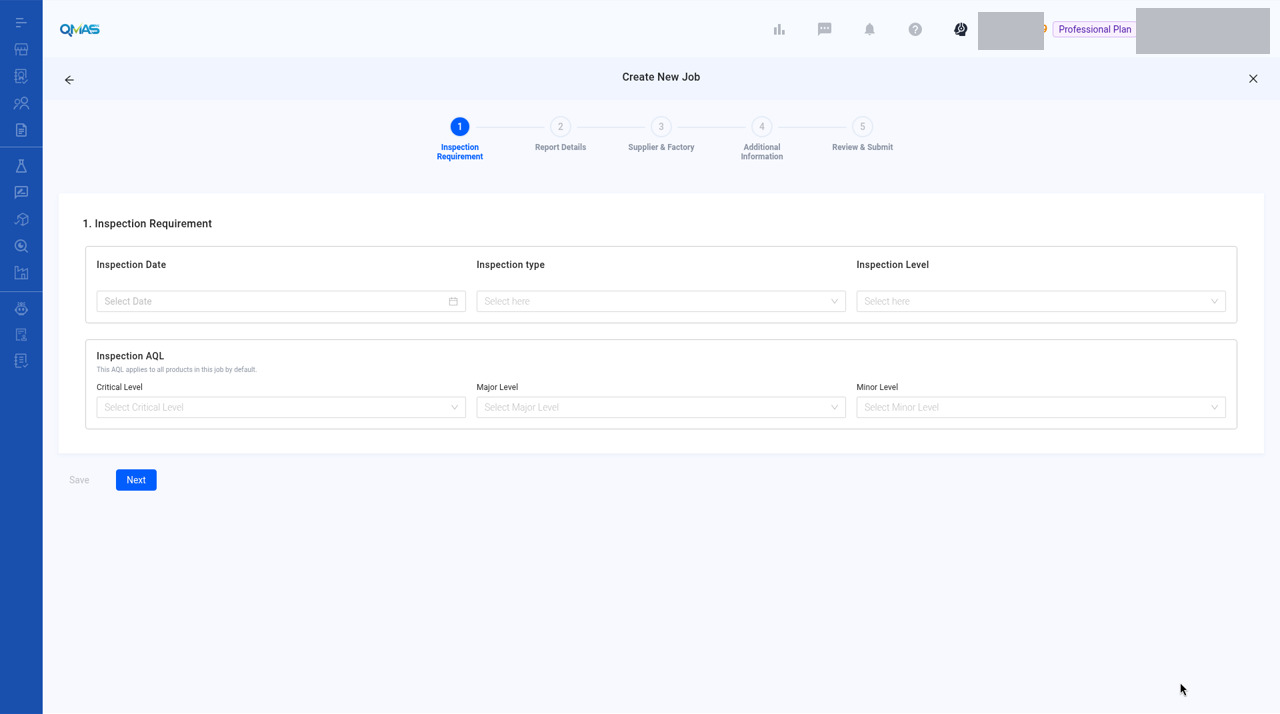
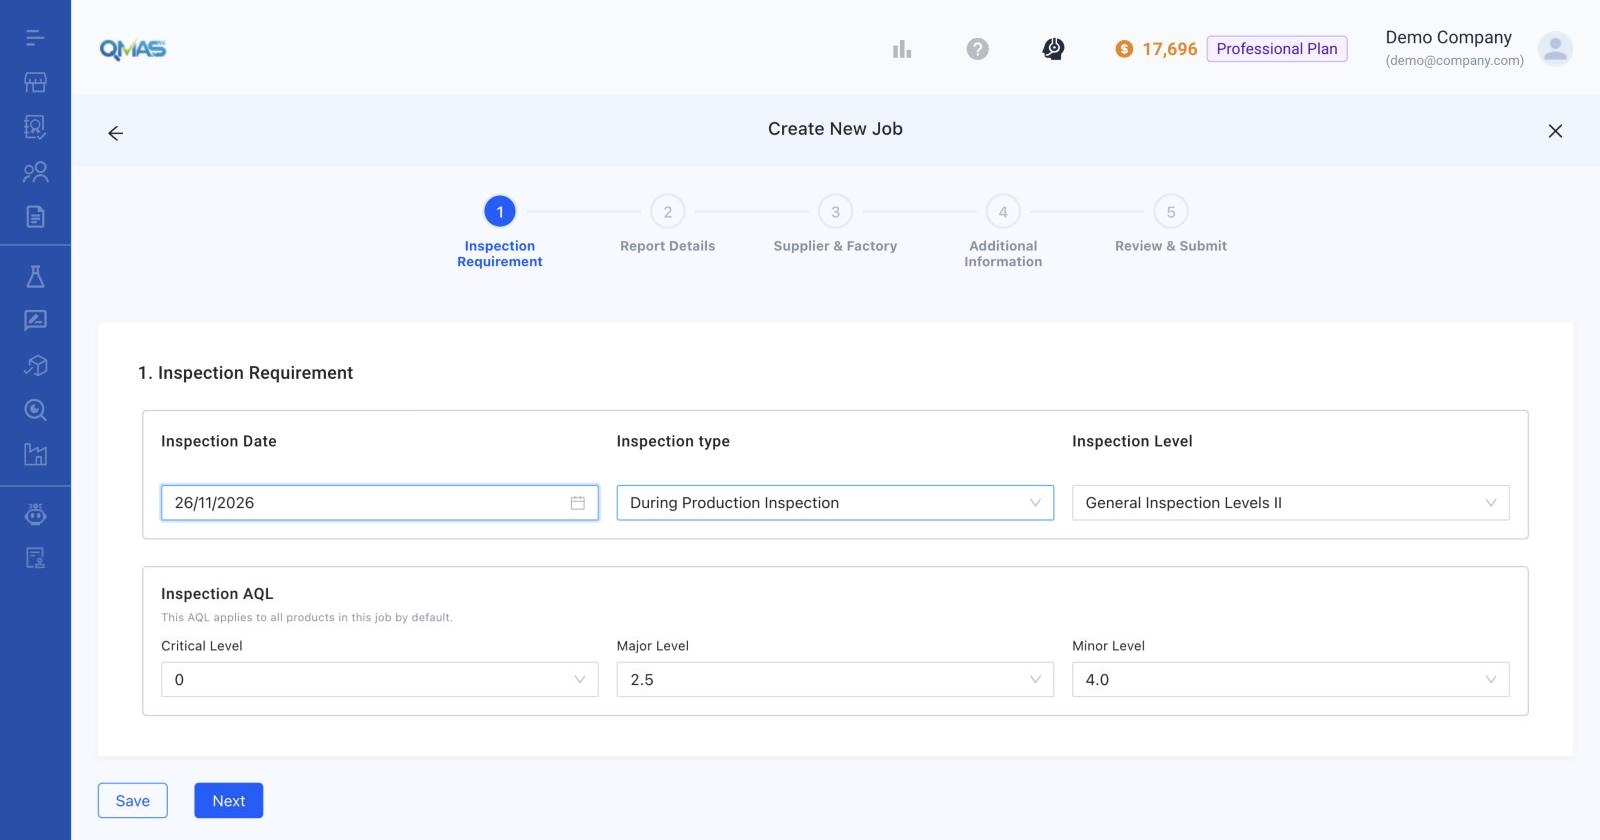
Recapture Internal QC Inspection with demo data in HD

diff --git a/export/print/qmas-user-guide.html b/export/print/qmas-user-guide.html
@@ -1033,13 +1033,13 @@ caption.visually-hidden { /* name comes from the region label */ }
 <h2>Step-by-step</h2>
 <h3 id="1-open-internal-qc-inspection">1. Open Internal QC Inspection</h3>
 <p>In the left menu, open <strong>Internal QC Inspection</strong>. The tabs show <strong>All Job</strong>, <strong>Onsite Job Calendar</strong> and <strong>Draft</strong>. Click <strong>Create Job</strong>. To add many jobs at once, use <strong>Import Job</strong>.</p>
-<figure class="shot"><img src="../../assets/reviewed/internal-qc-inspection/01-list.jpg" alt="Internal QC Inspection list with Import Job and Create Job." width="1280" height="714" fetchpriority="high" decoding="async"><figcaption>Internal QC Inspection list with Import Job and Create Job.</figcaption></figure>
+<figure class="shot"><img src="../../assets/reviewed/internal-qc-inspection/01-list.jpg" alt="Internal QC Inspection list, searched by job ID, with Import Job and Create Job." width="1600" height="580" fetchpriority="high" decoding="async"><figcaption>Internal QC Inspection list, searched by job ID, with Import Job and Create Job.</figcaption></figure>
 <h3 id="2-start-internal-inspection">2. Start internal inspection</h3>
 <p><strong>Start internal inspection</strong> is selected. Click <strong>Continue</strong>.</p>
-<figure class="shot"><img src="../../assets/reviewed/internal-qc-inspection/02-looking-to.jpg" alt="Create New Job — Start internal inspection selected." width="1280" height="714" loading="lazy" decoding="async"><figcaption>Create New Job — Start internal inspection selected.</figcaption></figure>
+<figure class="shot"><img src="../../assets/reviewed/internal-qc-inspection/02-looking-to.jpg" alt="Create New Job — Start internal inspection selected." width="1600" height="770" loading="lazy" decoding="async"><figcaption>Create New Job — Start internal inspection selected.</figcaption></figure>
 <h3 id="3-inspection-requirement">3. Inspection Requirement</h3>
 <p>Choose the <strong>Inspection Date</strong>, <strong>Inspection type</strong>, <strong>Inspection Level</strong> and the <strong>AQL</strong> (Critical, Major, Minor). There is no budget or service provider, because your own team does the inspection. Click <strong>Next</strong>.</p>
-<figure class="shot"><img src="../../assets/reviewed/internal-qc-inspection/03-step1-requirement.jpg" alt="Step 1 Inspection Requirement for an internal inspection." width="1280" height="714" loading="lazy" decoding="async"><figcaption>Step 1 Inspection Requirement for an internal inspection.</figcaption></figure>
+<figure class="shot"><img src="../../assets/reviewed/internal-qc-inspection/03-step1-requirement.jpg" alt="Step 1 Inspection Requirement for an internal inspection." width="1600" height="840" loading="lazy" decoding="async"><figcaption>Step 1 Inspection Requirement for an internal inspection.</figcaption></figure>
 <h3 id="4-steps-2-5">4. Steps 2–5</h3>
 <p>The next steps are the same as in the QC Inspection quote flow. See the <a href="../../qc-inspection/">QC Inspection</a> guide for those steps.</p>
 <ul><li><strong>Report Details</strong>: add products and their POs.</li><li><strong>Supplier &amp; Factory</strong>: select the supplier and the factory to inspect.</li><li><strong>Additional Information</strong>: upload reference files and add remarks.</li><li><strong>Review &amp; Submit</strong>: check the summary, then click <strong>Submit</strong>. The job opens with its Job ID.</li></ul>

diff --git a/export/print/internal-qc-inspection.html b/export/print/internal-qc-inspection.html
@@ -465,13 +465,13 @@ caption.visually-hidden { /* name comes from the region label */ }
 <h2>Step-by-step</h2>
 <h3 id="1-open-internal-qc-inspection">1. Open Internal QC Inspection</h3>
 <p>In the left menu, open <strong>Internal QC Inspection</strong>. The tabs show <strong>All Job</strong>, <strong>Onsite Job Calendar</strong> and <strong>Draft</strong>. Click <strong>Create Job</strong>. To add many jobs at once, use <strong>Import Job</strong>.</p>
-<figure class="shot"><img src="../../assets/reviewed/internal-qc-inspection/01-list.jpg" alt="Internal QC Inspection list with Import Job and Create Job." width="1280" height="714" fetchpriority="high" decoding="async"><figcaption>Internal QC Inspection list with Import Job and Create Job.</figcaption></figure>
+<figure class="shot"><img src="../../assets/reviewed/internal-qc-inspection/01-list.jpg" alt="Internal QC Inspection list, searched by job ID, with Import Job and Create Job." width="1600" height="580" fetchpriority="high" decoding="async"><figcaption>Internal QC Inspection list, searched by job ID, with Import Job and Create Job.</figcaption></figure>
 <h3 id="2-start-internal-inspection">2. Start internal inspection</h3>
 <p><strong>Start internal inspection</strong> is selected. Click <strong>Continue</strong>.</p>
-<figure class="shot"><img src="../../assets/reviewed/internal-qc-inspection/02-looking-to.jpg" alt="Create New Job — Start internal inspection selected." width="1280" height="714" loading="lazy" decoding="async"><figcaption>Create New Job — Start internal inspection selected.</figcaption></figure>
+<figure class="shot"><img src="../../assets/reviewed/internal-qc-inspection/02-looking-to.jpg" alt="Create New Job — Start internal inspection selected." width="1600" height="770" loading="lazy" decoding="async"><figcaption>Create New Job — Start internal inspection selected.</figcaption></figure>
 <h3 id="3-inspection-requirement">3. Inspection Requirement</h3>
 <p>Choose the <strong>Inspection Date</strong>, <strong>Inspection type</strong>, <strong>Inspection Level</strong> and the <strong>AQL</strong> (Critical, Major, Minor). There is no budget or service provider, because your own team does the inspection. Click <strong>Next</strong>.</p>
-<figure class="shot"><img src="../../assets/reviewed/internal-qc-inspection/03-step1-requirement.jpg" alt="Step 1 Inspection Requirement for an internal inspection." width="1280" height="714" loading="lazy" decoding="async"><figcaption>Step 1 Inspection Requirement for an internal inspection.</figcaption></figure>
+<figure class="shot"><img src="../../assets/reviewed/internal-qc-inspection/03-step1-requirement.jpg" alt="Step 1 Inspection Requirement for an internal inspection." width="1600" height="840" loading="lazy" decoding="async"><figcaption>Step 1 Inspection Requirement for an internal inspection.</figcaption></figure>
 <h3 id="4-steps-2-5">4. Steps 2–5</h3>
 <p>The next steps are the same as in the QC Inspection quote flow. See the <a href="../../qc-inspection/">QC Inspection</a> guide for those steps.</p>
 <ul><li><strong>Report Details</strong>: add products and their POs.</li><li><strong>Supplier &amp; Factory</strong>: select the supplier and the factory to inspect.</li><li><strong>Additional Information</strong>: upload reference files and add remarks.</li><li><strong>Review &amp; Submit</strong>: check the summary, then click <strong>Submit</strong>. The job opens with its Job ID.</li></ul>

diff --git a/combined/index.html b/combined/index.html
@@ -1052,13 +1052,13 @@ caption.visually-hidden { /* name comes from the region label */ }
 <h2>Step-by-step</h2>
 <h3 id="1-open-internal-qc-inspection">1. Open Internal QC Inspection</h3>
 <p>In the left menu, open <strong>Internal QC Inspection</strong>. The tabs show <strong>All Job</strong>, <strong>Onsite Job Calendar</strong> and <strong>Draft</strong>. Click <strong>Create Job</strong>. To add many jobs at once, use <strong>Import Job</strong>.</p>
-<figure class="shot"><img src="../assets/reviewed/internal-qc-inspection/01-list.jpg" alt="Internal QC Inspection list with Import Job and Create Job." width="1280" height="714" fetchpriority="high" decoding="async"><figcaption>Internal QC Inspection list with Import Job and Create Job.</figcaption></figure>
+<figure class="shot"><img src="../assets/reviewed/internal-qc-inspection/01-list.jpg" alt="Internal QC Inspection list, searched by job ID, with Import Job and Create Job." width="1600" height="580" fetchpriority="high" decoding="async"><figcaption>Internal QC Inspection list, searched by job ID, with Import Job and Create Job.</figcaption></figure>
 <h3 id="2-start-internal-inspection">2. Start internal inspection</h3>
 <p><strong>Start internal inspection</strong> is selected. Click <strong>Continue</strong>.</p>
-<figure class="shot"><img src="../assets/reviewed/internal-qc-inspection/02-looking-to.jpg" alt="Create New Job — Start internal inspection selected." width="1280" height="714" loading="lazy" decoding="async"><figcaption>Create New Job — Start internal inspection selected.</figcaption></figure>
+<figure class="shot"><img src="../assets/reviewed/internal-qc-inspection/02-looking-to.jpg" alt="Create New Job — Start internal inspection selected." width="1600" height="770" loading="lazy" decoding="async"><figcaption>Create New Job — Start internal inspection selected.</figcaption></figure>
 <h3 id="3-inspection-requirement">3. Inspection Requirement</h3>
 <p>Choose the <strong>Inspection Date</strong>, <strong>Inspection type</strong>, <strong>Inspection Level</strong> and the <strong>AQL</strong> (Critical, Major, Minor). There is no budget or service provider, because your own team does the inspection. Click <strong>Next</strong>.</p>
-<figure class="shot"><img src="../assets/reviewed/internal-qc-inspection/03-step1-requirement.jpg" alt="Step 1 Inspection Requirement for an internal inspection." width="1280" height="714" loading="lazy" decoding="async"><figcaption>Step 1 Inspection Requirement for an internal inspection.</figcaption></figure>
+<figure class="shot"><img src="../assets/reviewed/internal-qc-inspection/03-step1-requirement.jpg" alt="Step 1 Inspection Requirement for an internal inspection." width="1600" height="840" loading="lazy" decoding="async"><figcaption>Step 1 Inspection Requirement for an internal inspection.</figcaption></figure>
 <h3 id="4-steps-2-5">4. Steps 2–5</h3>
 <p>The next steps are the same as in the QC Inspection quote flow. See the <a href="../qc-inspection/">QC Inspection</a> guide for those steps.</p>
 <ul><li><strong>Report Details</strong>: add products and their POs.</li><li><strong>Supplier &amp; Factory</strong>: select the supplier and the factory to inspect.</li><li><strong>Additional Information</strong>: upload reference files and add remarks.</li><li><strong>Review &amp; Submit</strong>: check the summary, then click <strong>Submit</strong>. The job opens with its Job ID.</li></ul>

diff --git a/internal-qc-inspection/index.html b/internal-qc-inspection/index.html
@@ -466,13 +466,13 @@ caption.visually-hidden { /* name comes from the region label */ }
 <h2>Step-by-step</h2>
 <h3 id="1-open-internal-qc-inspection">1. Open Internal QC Inspection</h3>
 <p>In the left menu, open <strong>Internal QC Inspection</strong>. The tabs show <strong>All Job</strong>, <strong>Onsite Job Calendar</strong> and <strong>Draft</strong>. Click <strong>Create Job</strong>. To add many jobs at once, use <strong>Import Job</strong>.</p>
-<figure class="shot"><img src="../assets/reviewed/internal-qc-inspection/01-list.jpg" alt="Internal QC Inspection list with Import Job and Create Job." width="1280" height="714" fetchpriority="high" decoding="async"><figcaption>Internal QC Inspection list with Import Job and Create Job.</figcaption></figure>
+<figure class="shot"><img src="../assets/reviewed/internal-qc-inspection/01-list.jpg" alt="Internal QC Inspection list, searched by job ID, with Import Job and Create Job." width="1600" height="580" fetchpriority="high" decoding="async"><figcaption>Internal QC Inspection list, searched by job ID, with Import Job and Create Job.</figcaption></figure>
 <h3 id="2-start-internal-inspection">2. Start internal inspection</h3>
 <p><strong>Start internal inspection</strong> is selected. Click <strong>Continue</strong>.</p>
-<figure class="shot"><img src="../assets/reviewed/internal-qc-inspection/02-looking-to.jpg" alt="Create New Job — Start internal inspection selected." width="1280" height="714" loading="lazy" decoding="async"><figcaption>Create New Job — Start internal inspection selected.</figcaption></figure>
+<figure class="shot"><img src="../assets/reviewed/internal-qc-inspection/02-looking-to.jpg" alt="Create New Job — Start internal inspection selected." width="1600" height="770" loading="lazy" decoding="async"><figcaption>Create New Job — Start internal inspection selected.</figcaption></figure>
 <h3 id="3-inspection-requirement">3. Inspection Requirement</h3>
 <p>Choose the <strong>Inspection Date</strong>, <strong>Inspection type</strong>, <strong>Inspection Level</strong> and the <strong>AQL</strong> (Critical, Major, Minor). There is no budget or service provider, because your own team does the inspection. Click <strong>Next</strong>.</p>
-<figure class="shot"><img src="../assets/reviewed/internal-qc-inspection/03-step1-requirement.jpg" alt="Step 1 Inspection Requirement for an internal inspection." width="1280" height="714" loading="lazy" decoding="async"><figcaption>Step 1 Inspection Requirement for an internal inspection.</figcaption></figure>
+<figure class="shot"><img src="../assets/reviewed/internal-qc-inspection/03-step1-requirement.jpg" alt="Step 1 Inspection Requirement for an internal inspection." width="1600" height="840" loading="lazy" decoding="async"><figcaption>Step 1 Inspection Requirement for an internal inspection.</figcaption></figure>
 <h3 id="4-steps-2-5">4. Steps 2–5</h3>
 <p>The next steps are the same as in the QC Inspection quote flow. See the <a href="../qc-inspection/">QC Inspection</a> guide for those steps.</p>
 <ul><li><strong>Report Details</strong>: add products and their POs.</li><li><strong>Supplier &amp; Factory</strong>: select the supplier and the factory to inspect.</li><li><strong>Additional Information</strong>: upload reference files and add remarks.</li><li><strong>Review &amp; Submit</strong>: check the summary, then click <strong>Submit</strong>. The job opens with its Job ID.</li></ul>

diff --git a/tests/test_exports.py b/tests/test_exports.py
@@ -50,7 +50,7 @@ CLEAN_MODULES = {
     "product-testing", "qc-inspection", "supplier-management", "test-plan", "factory-audit",
 }
 # Modules whose screenshots have all been retaken with demo data.
-FULL_IMAGE_MODULES = {"product-profile", "supplier-management", "factory-management", "product-management", "product-testing", "document-management", "document-review", "efiling", "qc-inspection"}
+FULL_IMAGE_MODULES = {"product-profile", "supplier-management", "factory-management", "product-management", "product-testing", "document-management", "document-review", "efiling", "qc-inspection", "internal-qc-inspection"}
 
 
 def skipped(slug: str, block: str) -> bool:

diff --git a/export/markdown/qmas-user-guide.md b/export/markdown/qmas-user-guide.md
@@ -1415,10 +1415,10 @@ Schedule an inspection that your own QC team carries out, without a third-party 
 
 In the left menu, open **Internal QC Inspection**. The tabs show **All Job**, **Onsite Job Calendar** and **Draft**. Click **Create Job**. To add many jobs at once, use **Import Job**.
 
-![Internal QC Inspection list with Import Job and Create Job.](images/internal-qc-inspection/01-list.jpg)
+![Internal QC Inspection list, searched by job ID, with Import Job and Create Job.](images/internal-qc-inspection/01-list.jpg)
 
 
-*Internal QC Inspection list with Import Job and Create Job.*
+*Internal QC Inspection list, searched by job ID, with Import Job and Create Job.*
 
 
 ### 2. Start internal inspection

diff --git a/export/markdown/internal-qc-inspection.md b/export/markdown/internal-qc-inspection.md
@@ -27,10 +27,10 @@ Schedule an inspection that your own QC team carries out, without a third-party 
 
 In the left menu, open **Internal QC Inspection**. The tabs show **All Job**, **Onsite Job Calendar** and **Draft**. Click **Create Job**. To add many jobs at once, use **Import Job**.
 
-![Internal QC Inspection list with Import Job and Create Job.](images/internal-qc-inspection/01-list.jpg)
+![Internal QC Inspection list, searched by job ID, with Import Job and Create Job.](images/internal-qc-inspection/01-list.jpg)
 
 
-*Internal QC Inspection list with Import Job and Create Job.*
+*Internal QC Inspection list, searched by job ID, with Import Job and Create Job.*
 
 
 ### 2. Start internal inspection
